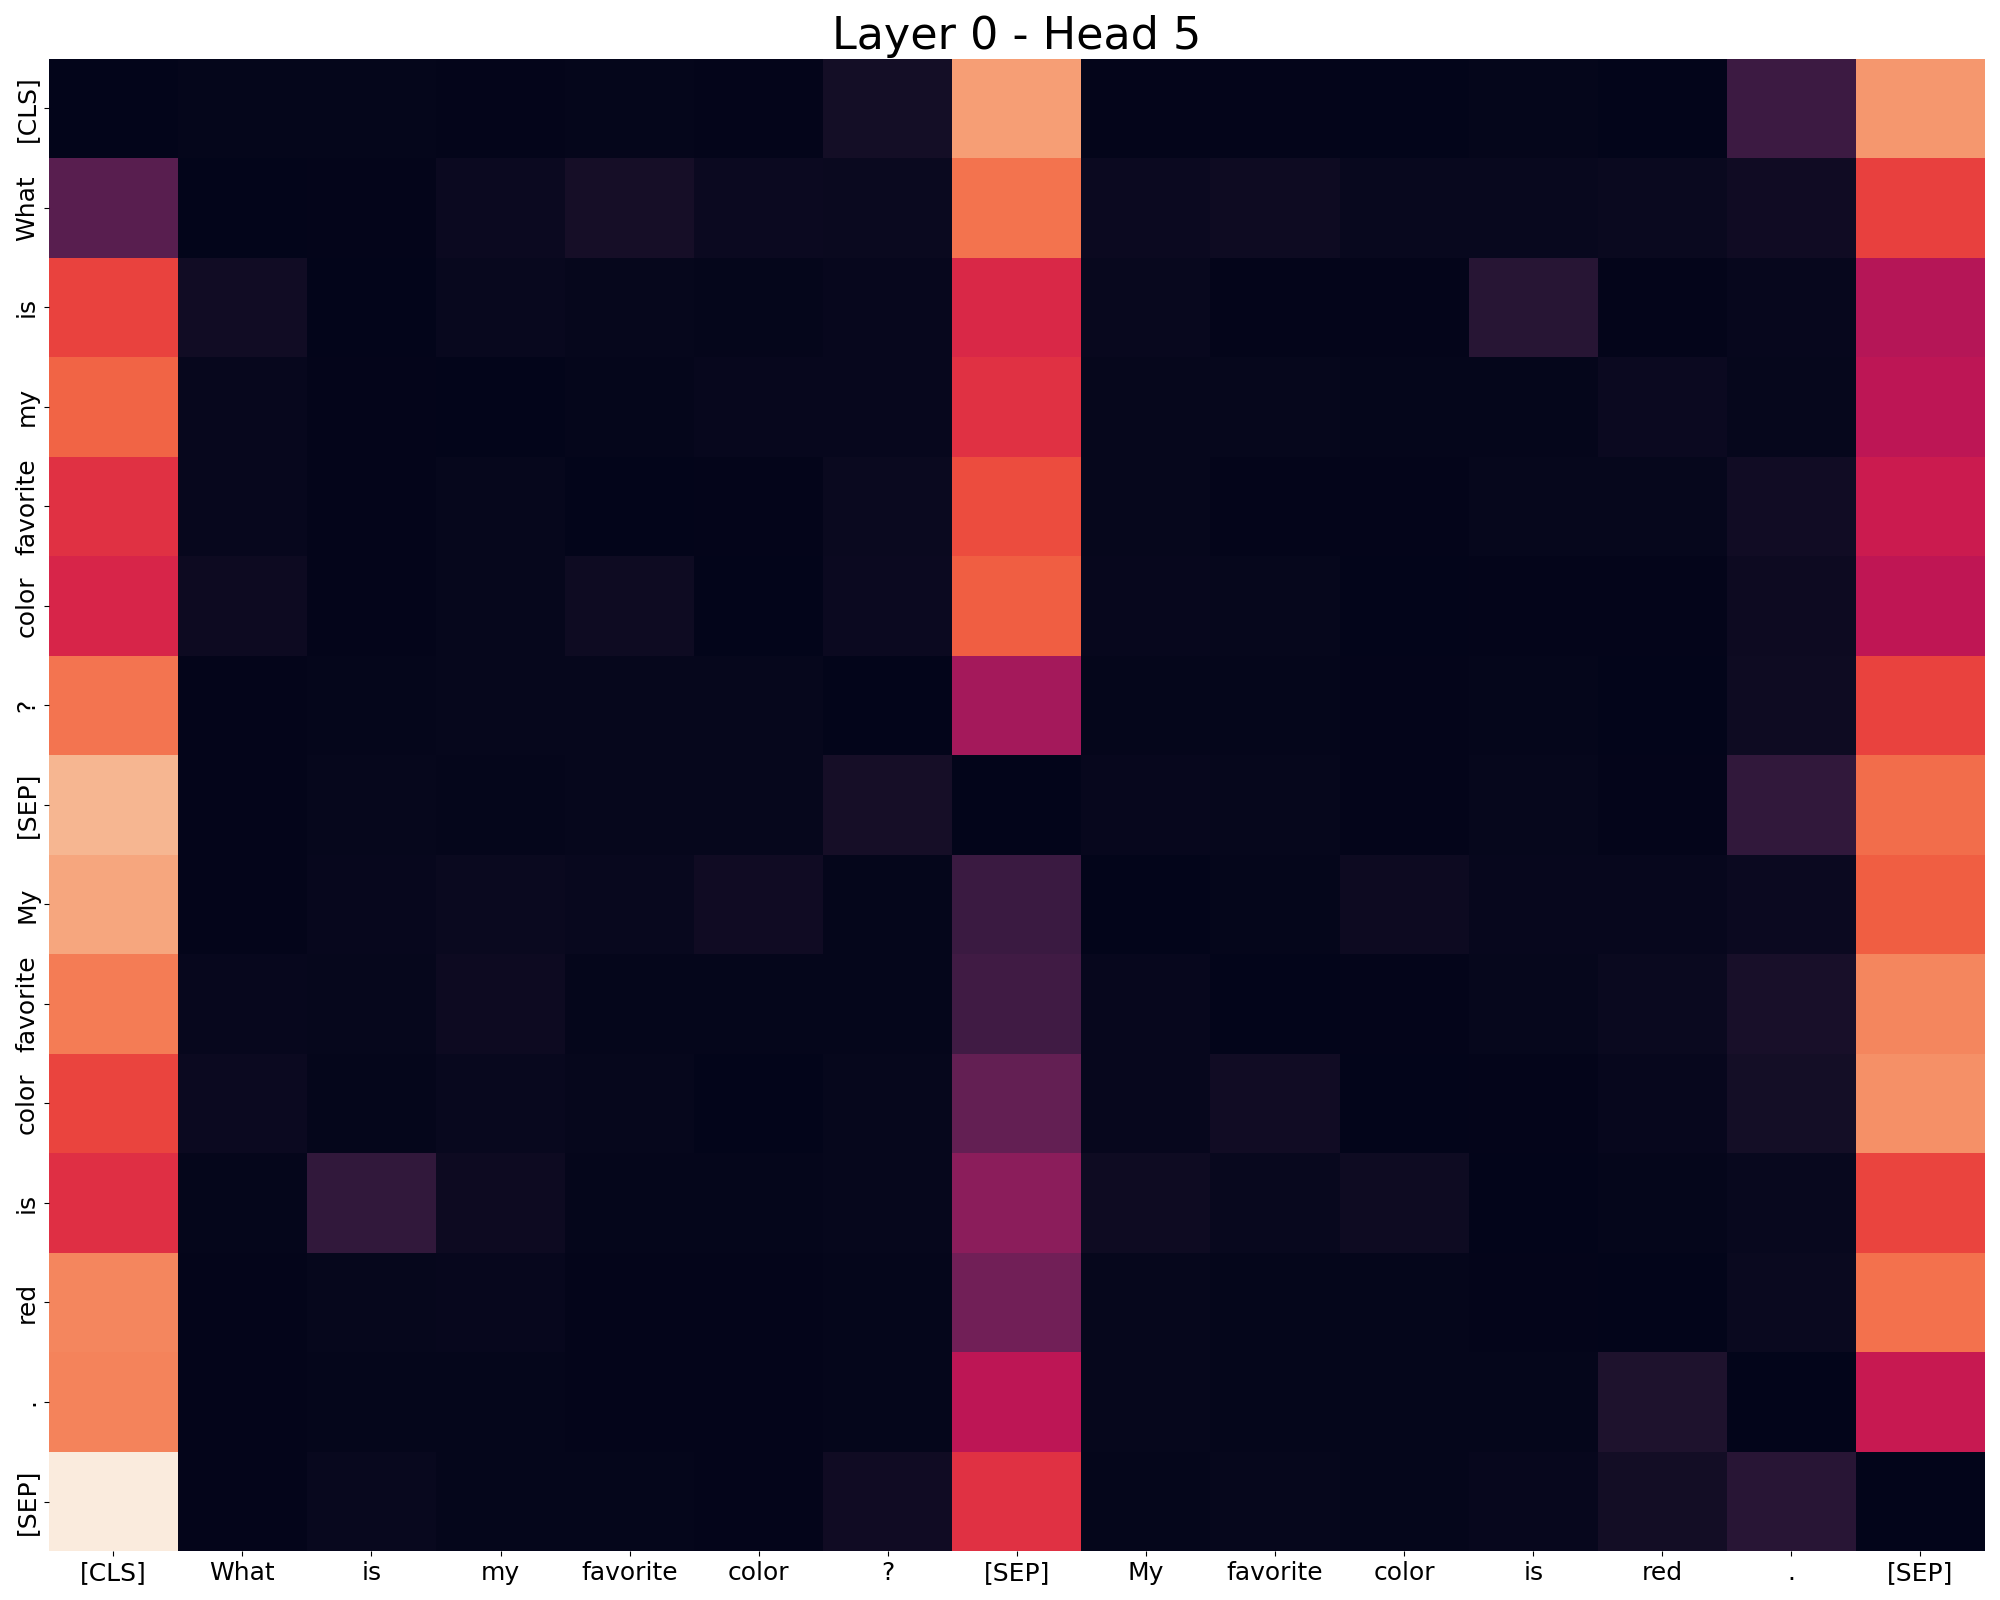
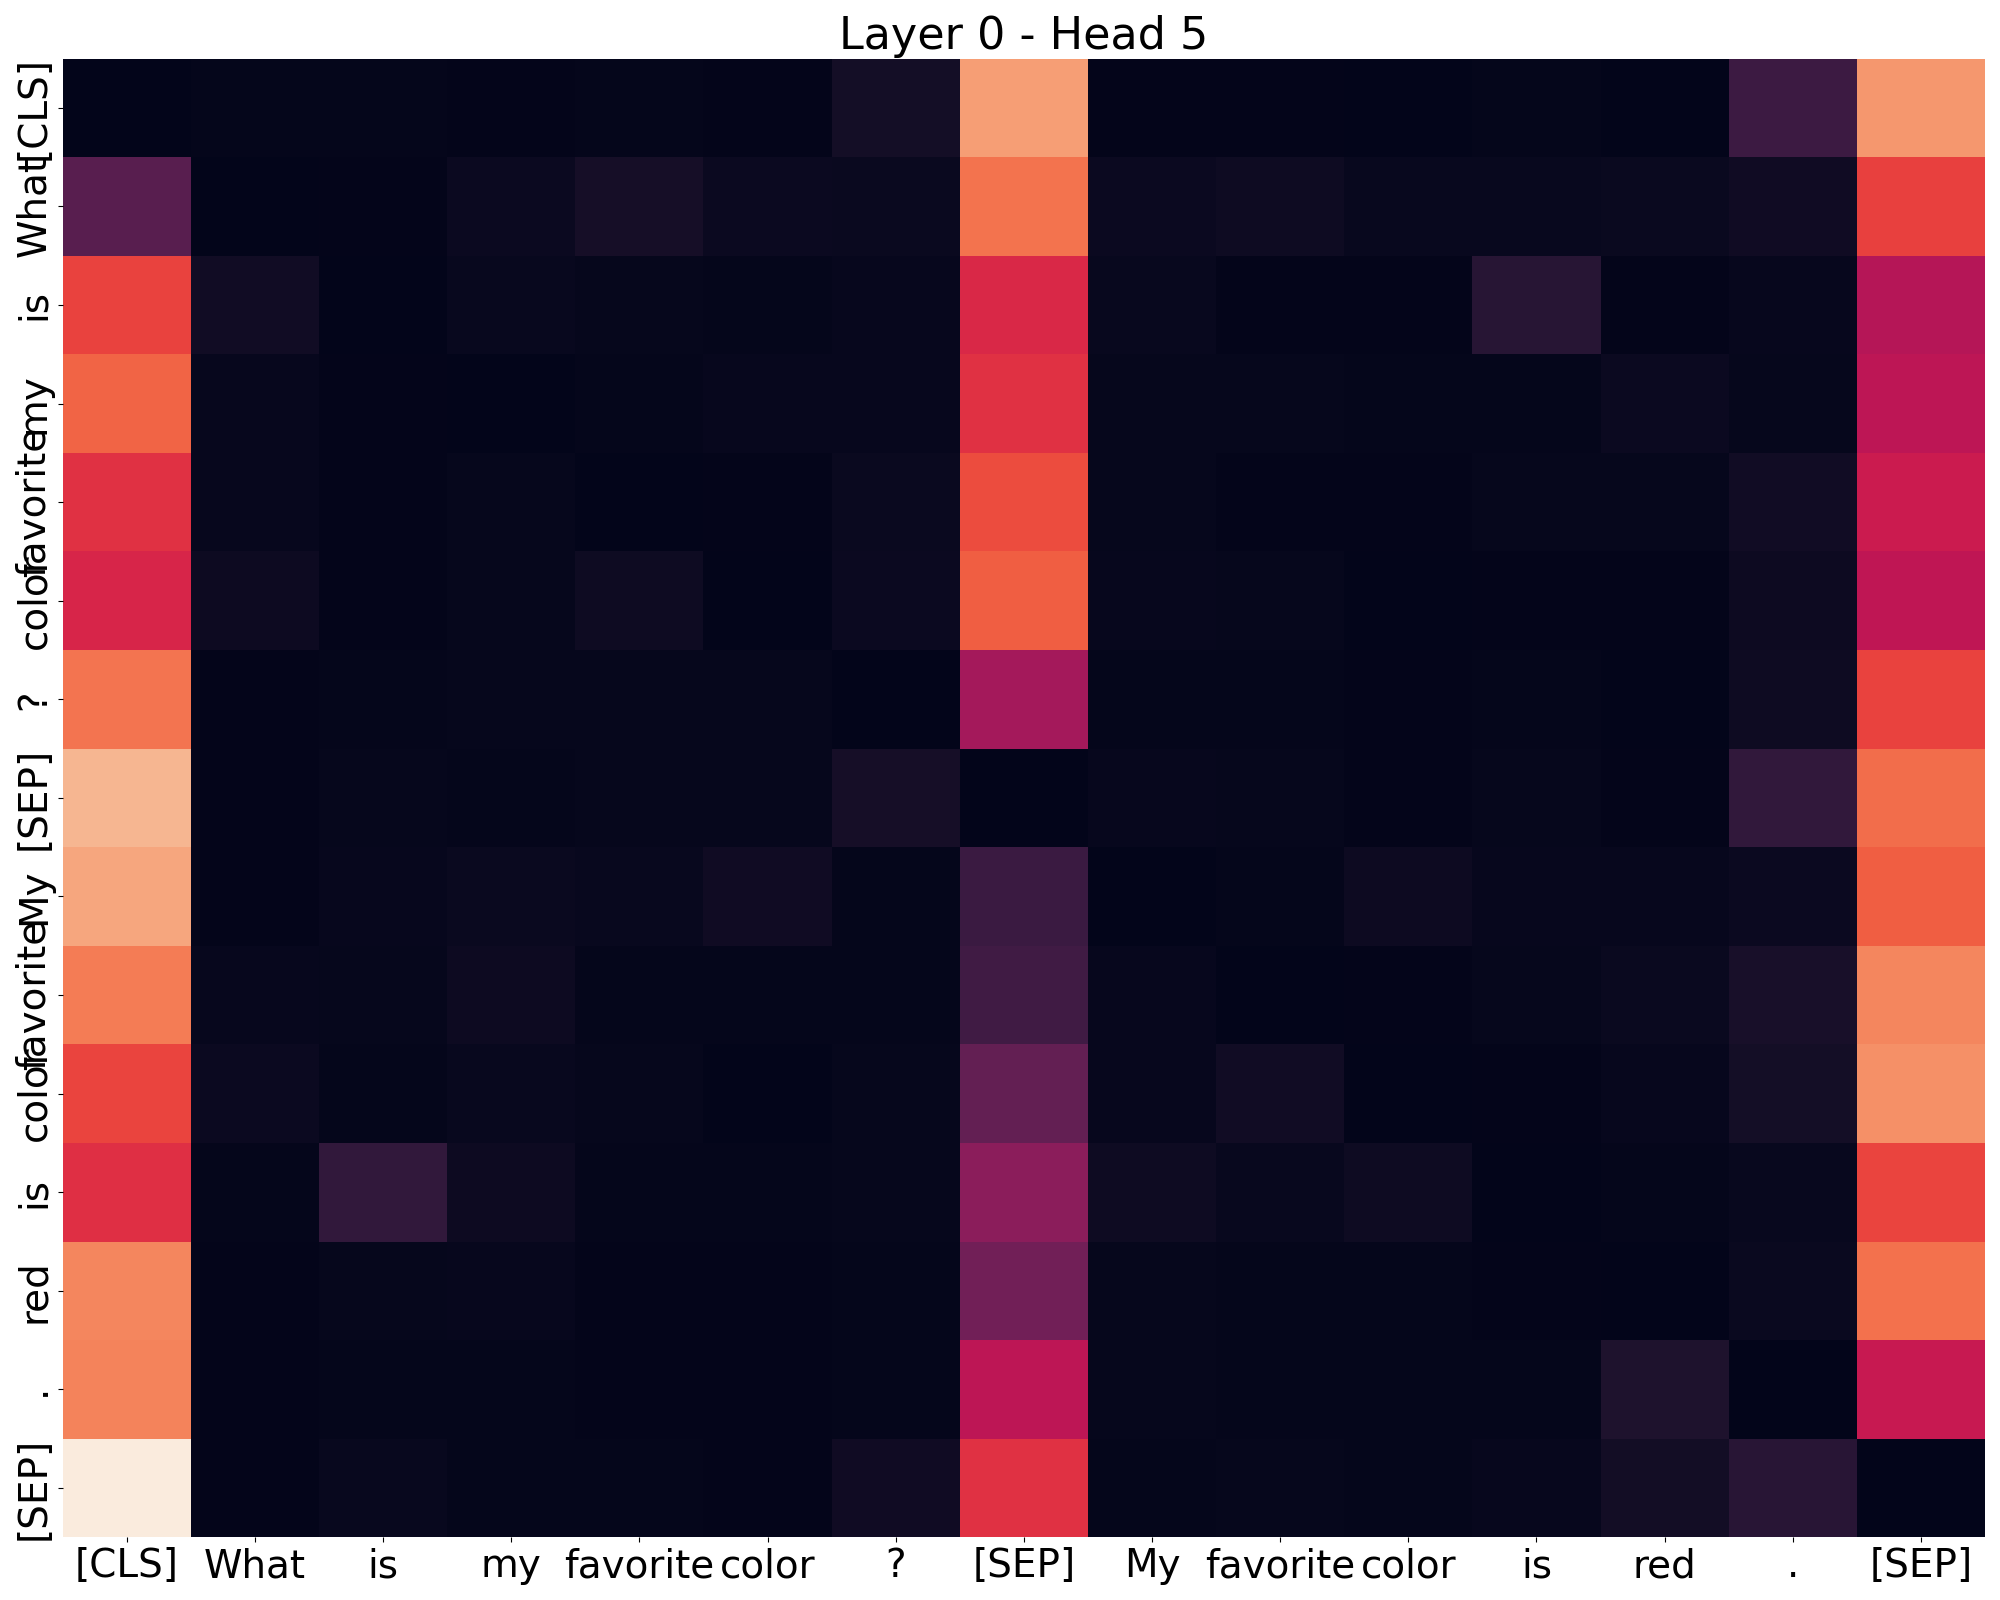
updated images

diff --git a/scripts/interactive_attention_analysis.py b/scripts/interactive_attention_analysis.py
@@ -62,16 +62,17 @@ def main():
             print(f"Attentions visualized. See the 'models/{experiment}/attentions_vis' directory for the visualizations.")
             
             indiv_attn = input("Would you like to save an individual attention head? (yes/no): ").strip().lower()
-            
-            while True: 
-                if indiv_attn == 'yes':
+            if indiv_attn == 'yes':
+                
+                while True: 
                     layer_num = int(input("Enter the layer number: "))
                     head_num = int(input("Enter the head number: "))
                     visualize_single_attention_head(attentions, processed_tokens, layer_num, head_num, save_dir=f'models/{experiment}/attentions_vis/individual_heads/')
                     response = input(f"Individual attention head saved at models/{experiment}/attentions_vis/individual_heads.\nWould you like to save another individual attention head? (yes/no): ")
                     if response != 'yes':
                         break
-                    
+            else:
+                print("Not visualizing individual attention heads.")       
         else:
             print("Not visualizing attentions.")
         # Ask if the user wants to input another question/context pair

diff --git a/src/attention_analysis.py b/src/attention_analysis.py
@@ -78,8 +78,8 @@ def visualize_single_attention_head(attentions, tokens, layer_num, head_num, sav
     sns.heatmap(attention_head, xticklabels=tokens, yticklabels=tokens, ax=ax, cbar=False)
     ax.set_title(f'Layer {layer_num} - Head {head_num}', fontsize=32)
 
-    ax.tick_params(axis='x', labelsize=18)
-    ax.tick_params(axis='y', labelsize=18)
+    ax.tick_params(axis='x', labelsize=28)
+    ax.tick_params(axis='y', labelsize=28)
     
     file_path = os.path.join(save_dir, f'layer_{layer_num}_head_{head_num}.png')
     plt.tight_layout()
